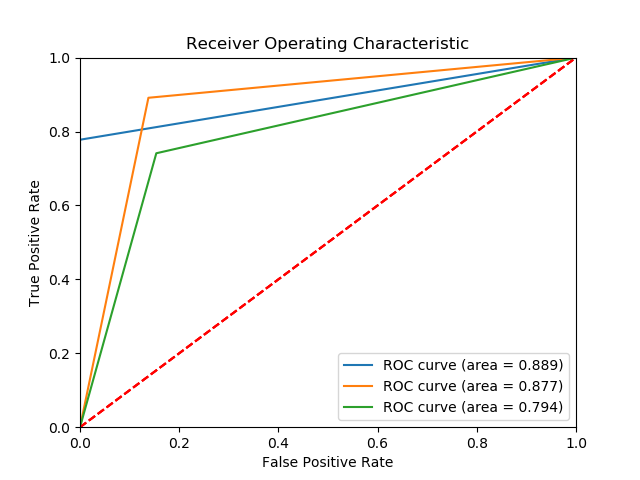
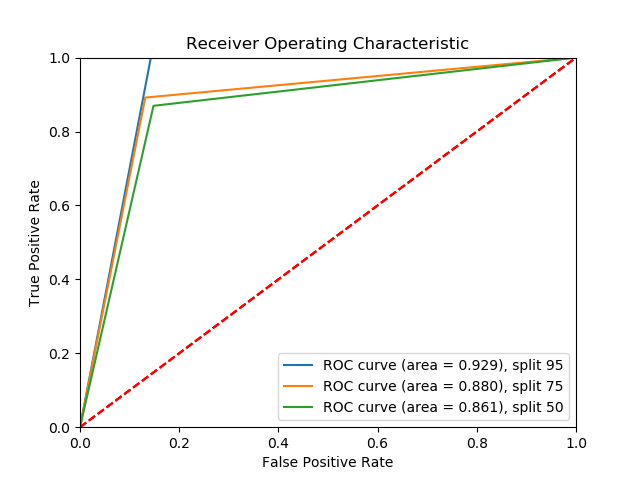
Fix multi  ROC curves legend

diff --git a/4_1_multi_roc.py b/4_1_multi_roc.py
@@ -46,8 +46,8 @@ def train_classifier(hash_list, cut, expected_output, save):
 	randforest.fit(X, y)
 
 	# Save the classifier with pickle
-	with open('classifier_strings','wb') as fp:
-	    pickle.dump(classifier,fp)
+	#with open('classifier_strings','wb') as fp:
+	#    pickle.dump(classifier,fp)
 
 	# Initialisation for the ROC curve
 	fpr = []
@@ -63,7 +63,7 @@ def train_classifier(hash_list, cut, expected_output, save):
 
 	# Show the ROC curve of the classifier
 	pyplot.title('Receiver Operating Characteristic')
-	pyplot.plot(fpr, tpr, label='ROC curve (area = %0.3f)' % auc)
+	pyplot.plot(fpr, tpr, label='ROC curve (area = %0.3f), split %s' %(auc, save))
 	pyplot.legend(loc = 'lower right')
 	pyplot.plot([0, 1], [0, 1],'r--')
 	pyplot.xlim([0, 1])
